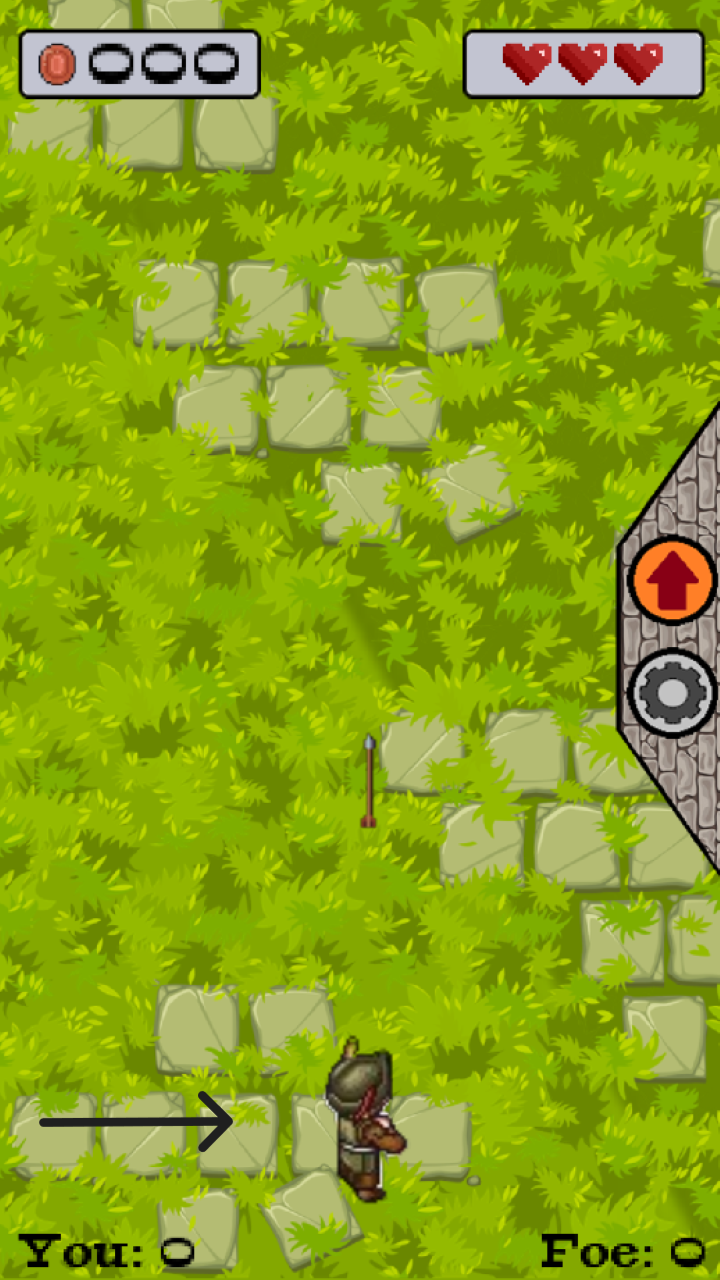
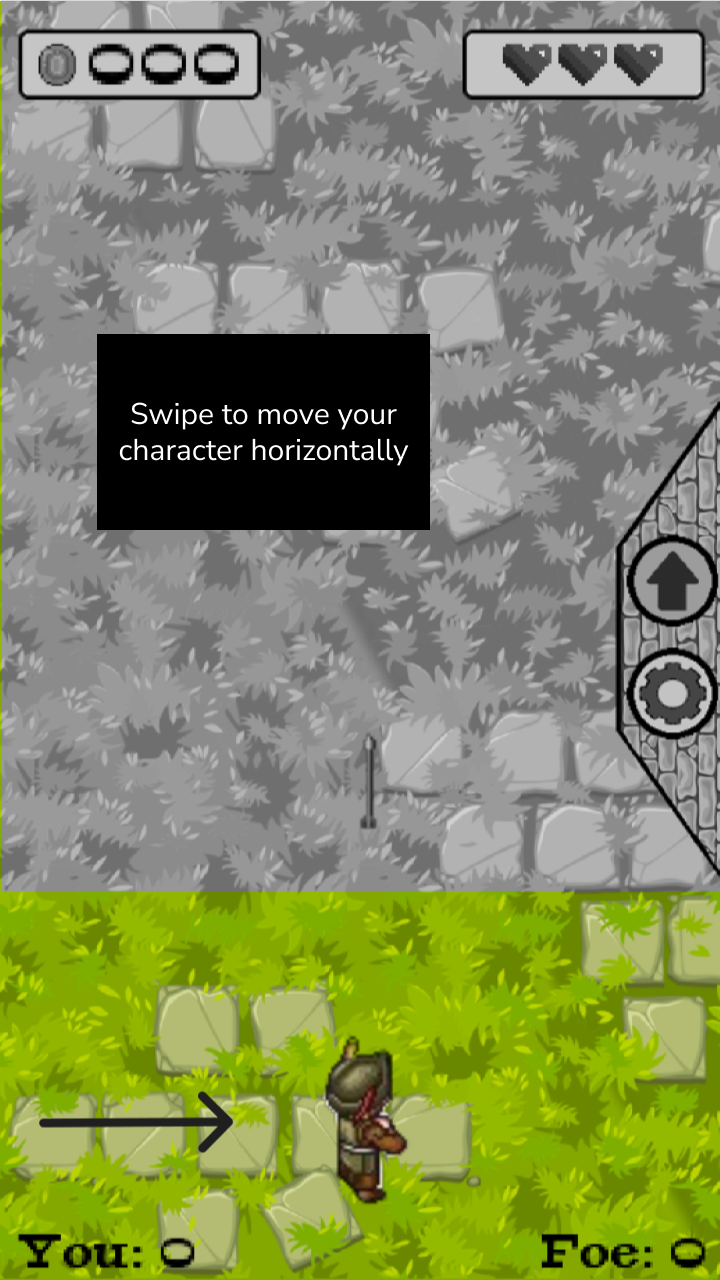
add powerpoint presentation

diff --git a/core/src/main/kotlin/com/peasantrebellion/view/TutorialView.kt b/core/src/main/kotlin/com/peasantrebellion/view/TutorialView.kt
@@ -16,8 +16,8 @@ class TutorialView : View {
     private val batch = SpriteBatch()
     private val menuFont = MenuFont()
 
-    private val background = Texture("tutorial/tutorial_1.png")
-    private val blackBox = Texture("tutorial/black_box.png")
+    var currentTutorial = "1"
+    private var tutorialBackground = Texture("tutorial/tutorial_$currentTutorial.png")
 
     val backButton = Button(Texture("menu/back_button.png"), 50f, HEIGHT - 250f)
     val nextButton = Button(Texture("menu/large_button.png"), WIDTH / 2 - 200f, HEIGHT - 1000f)
@@ -26,14 +26,12 @@ class TutorialView : View {
         clearScreen(red = 0f, green = 0f, blue = 0f)
         batch.projectionMatrix = viewport.camera.combined
         batch.use {
-            // background
-            it.draw(background, 0f, 0f)
+            // tutorial
+            it.draw(tutorialBackground, 0f, 0f)
             // back button
             it.draw(backButton.texture, backButton.x, backButton.y)
             // next button
             it.draw(nextButton.texture, nextButton.x, nextButton.y)
-            // blackBox
-            it.draw(blackBox, WIDTH / 2 - 150f, HEIGHT / 2)
 
             with(menuFont) {
                 // Next title
@@ -44,11 +42,18 @@ class TutorialView : View {
         viewport.camera.update()
     }
 
+    fun handleNext() {
+        val nextTutorial = currentTutorial.toInt() + 1
+        currentTutorial = nextTutorial.toString()
+        tutorialBackground.dispose()
+        tutorialBackground = Texture("tutorial/tutorial_$currentTutorial.png")
+    }
+
     override fun dispose() {
         batch.disposeSafely()
         menuFont.disposeSafely()
         backButton.texture.disposeSafely()
-        background.disposeSafely()
+        tutorialBackground.disposeSafely()
     }
 
     companion object ScreenSize {

diff --git a/core/src/main/kotlin/com/peasantrebellion/controller/TutorialController.kt b/core/src/main/kotlin/com/peasantrebellion/controller/TutorialController.kt
@@ -12,12 +12,14 @@ class TutorialController(private val tutorialView: TutorialView) : Controller {
             if (touchedBackButton) {
                 PeasantRebellion.getInstance().switchTo(Screen.mainMenu())
             }
-        }
 
-        whenJustTouched { x, y ->
-            val touchedBackButton = tutorialView.nextButton.containsCoordinates(x, y)
-            if (touchedBackButton) {
-                PeasantRebellion.getInstance().switchTo(Screen.mainMenu())
+            val touchedNextButton = tutorialView.nextButton.containsCoordinates(x, y)
+            if (touchedNextButton) {
+                if (tutorialView.currentTutorial == "7") {
+                    PeasantRebellion.getInstance().switchTo(Screen.mainMenu())
+                } else {
+                    tutorialView.handleNext()
+                }
             }
         }
     }
